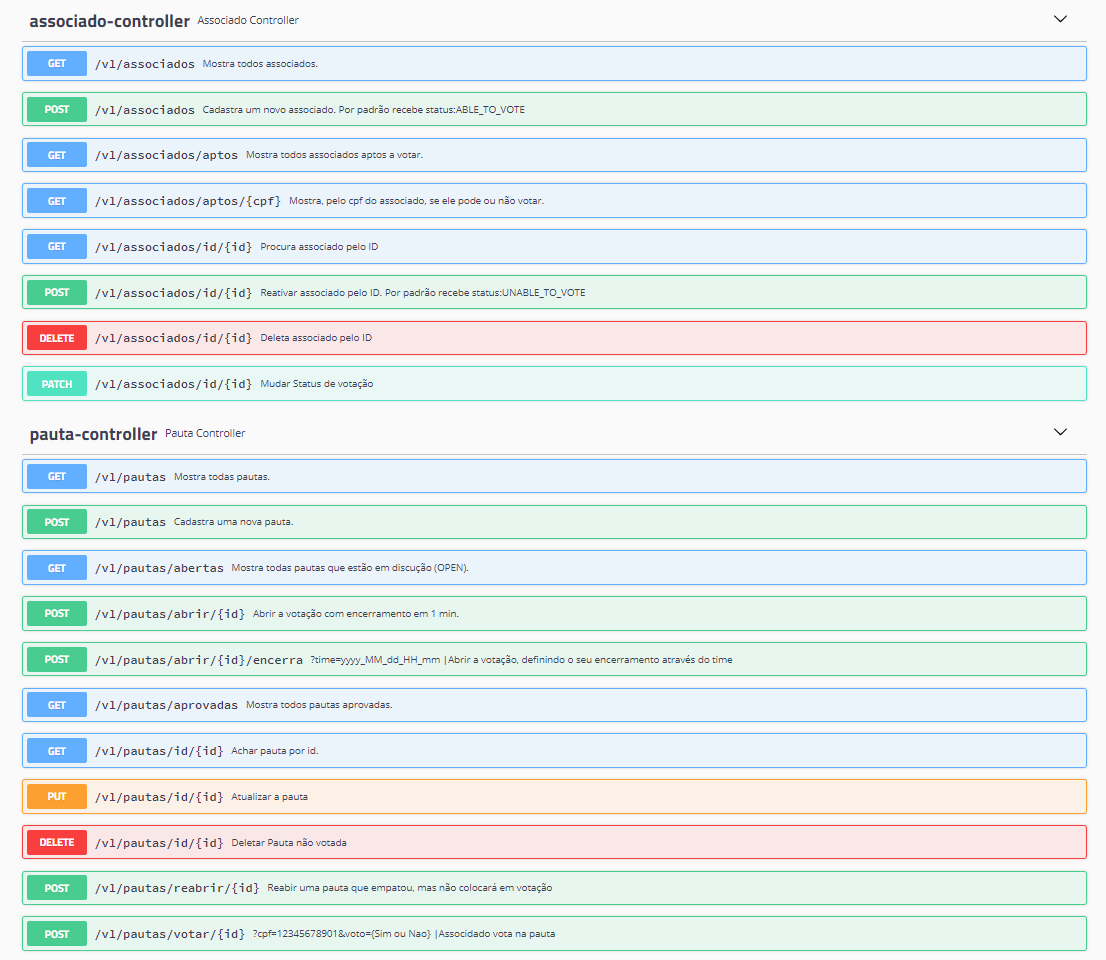
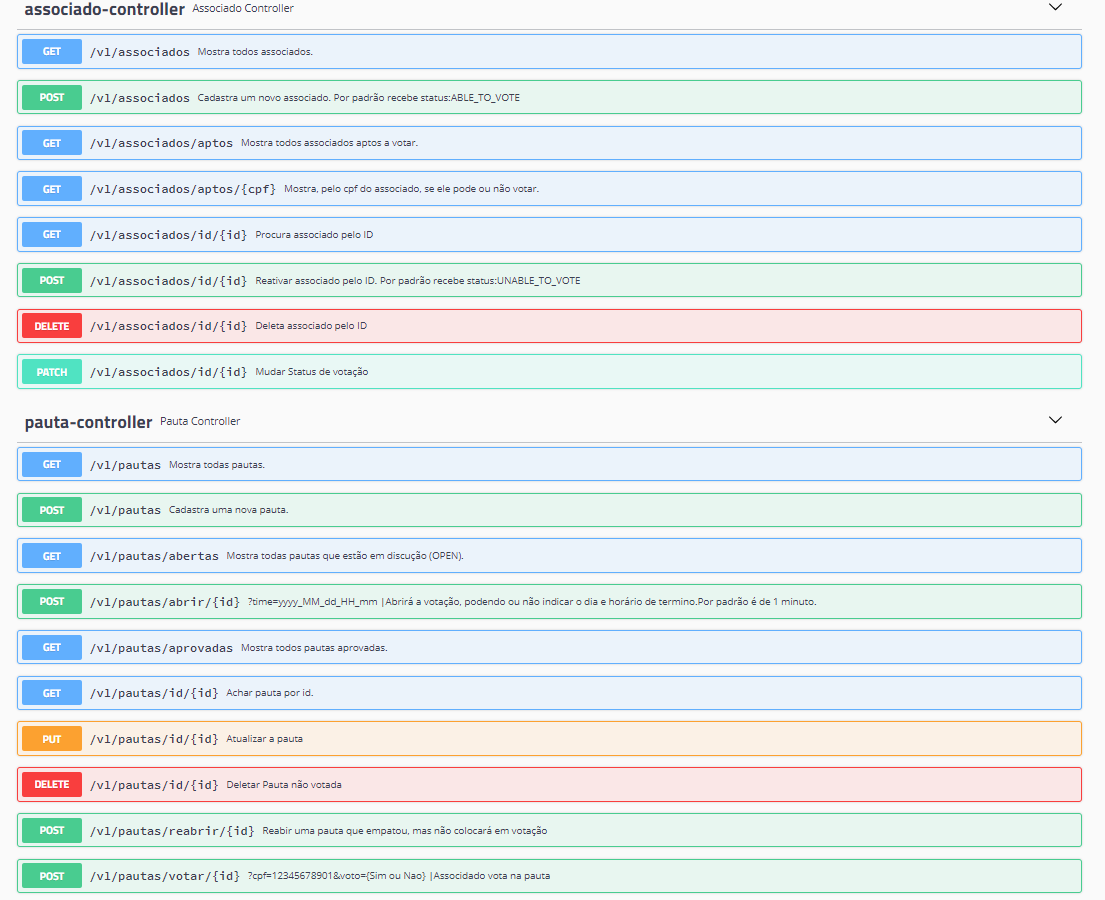
Melhoramento rota abrir votacao e dos dados vinculados para votação

Changed region(s): [[0.0, 0.0, 0.9846, 0.9956]]

diff --git a/src/main/java/br/com/edmilson/sicredi/service/PautaService.java b/src/main/java/br/com/edmilson/sicredi/service/PautaService.java
@@ -65,28 +65,17 @@ public class PautaService {
 		if (pauta.getTitulo().isEmpty())
 			throw new ValidacaoException("Título nao pode estar em branco");
 		Pauta obj = repository.save(pauta);
-		criandoVotacao(obj);
+		
 		return new PautaDTO(obj);
 	}
 
 	public void criandoVotacao(Pauta pauta) {
 		List<Associado> aptosVotar = associadoRepository.findAllByStatus(1);
 		if (aptosVotar.isEmpty())
-			throw new ValidacaoException("A pauta não pode ser criada sem associados aptos a votarem");
-		for (Associado x : aptosVotar) {
-			PautaAssociado votacao = new PautaAssociado(x, pauta);
-			x.getPautaAssociado().add(votacao);
-			pauta.getPautaAssociado().add(votacao);
+			throw new ValidacaoException("Não pode ser aberta a votação, pois não temos associados aptos à votar");
+		for (Associado x : aptosVotar) {			
 			votacaoRepository.save(new PautaAssociado(x, pauta));
 		}
-	}
-
-	public Pauta abrirVotacao(int id) {
-		Pauta pauta = acharPauta(id);
-		if (!pauta.getStatusPauta().equals(StatusPauta.OPEN)) throw new ValidacaoException("Pauta já foi aberta para votação");		
-		pauta.abrirVotacao();
-		this.salvar(pauta);
-		return pauta;
 	}
 
 	public Pauta abrirVotacao(int id, String time) {
@@ -94,11 +83,16 @@ public class PautaService {
 		if (!pauta.getStatusPauta().equals(StatusPauta.OPEN))
 			throw new ValidacaoException("Pauta já foi aberta para votação");
 		// TODO tratar erro quando time vem em formato diferente
-		DateTimeFormatter formatter = DateTimeFormatter.ofPattern("yyyy_MM_dd_HH_mm");
-		LocalDateTime dateTime = LocalDateTime.parse(time, formatter);
-		if (dateTime.isBefore(LocalDateTime.now()))
-			throw new ValidacaoException("Data " + dateTime + " inválida");
-		pauta.abrirVotacao(dateTime);
+		if(time != null) {			
+			DateTimeFormatter formatter = DateTimeFormatter.ofPattern("yyyy_MM_dd_HH_mm");
+			LocalDateTime dateTime = LocalDateTime.parse(time, formatter);
+			if (dateTime.isBefore(LocalDateTime.now()))
+				throw new ValidacaoException("Data " + dateTime + " inválida");
+			pauta.abrirVotacao(dateTime);			
+		}else {
+			pauta.abrirVotacao();
+		}
+		criandoVotacao(pauta);
 		this.salvar(pauta);
 		return pauta;
 	}

diff --git a/src/main/java/br/com/edmilson/sicredi/controller/PautaController.java b/src/main/java/br/com/edmilson/sicredi/controller/PautaController.java
@@ -87,23 +87,14 @@ public class PautaController {
 		return ResponseEntity.ok(pauta);
 	}
 	
-	@ApiOperation(value="Abrir a votação com encerramento em 1 min.")
-	@ApiResponses(value = {	
-		    @ApiResponse(code = 200, response = Pauta.class, message = "OK"),		   	    
-		})
-	@PostMapping("/abrir/{id}")
-	public ResponseEntity<Pauta> abrirPauta(@PathVariable int id) {
-		Pauta pauta = service.abrirVotacao(id);
-		return ResponseEntity.ok(pauta);
-	}
-	
-	@ApiOperation(value="?time=yyyy_MM_dd_HH_mm        |Abrir a votação, definindo o seu encerramento através do time")
+	@ApiOperation(value="?time=yyyy_MM_dd_HH_mm        |Abrirá a votação, podendo ou não indicar o dia e horário de termino."
+																	+ "Por padrão é de 1 minuto.")
 	@ApiResponses(value = {	
 		    @ApiResponse(code = 200, response = Pauta.class, message = "OK"),		   	    
 		})	
-	@PostMapping("/abrir/{id}/encerra")
+	@PostMapping("/abrir/{id}")
 	public ResponseEntity<Pauta> novaPautaHorario(@PathVariable int id, 
-												@RequestParam(name="time") String time) {		
+												@RequestParam(required = false, name="time") String time) {		
 		Pauta pauta = service.abrirVotacao(id, time);
 		return ResponseEntity.ok(pauta);
 	}
